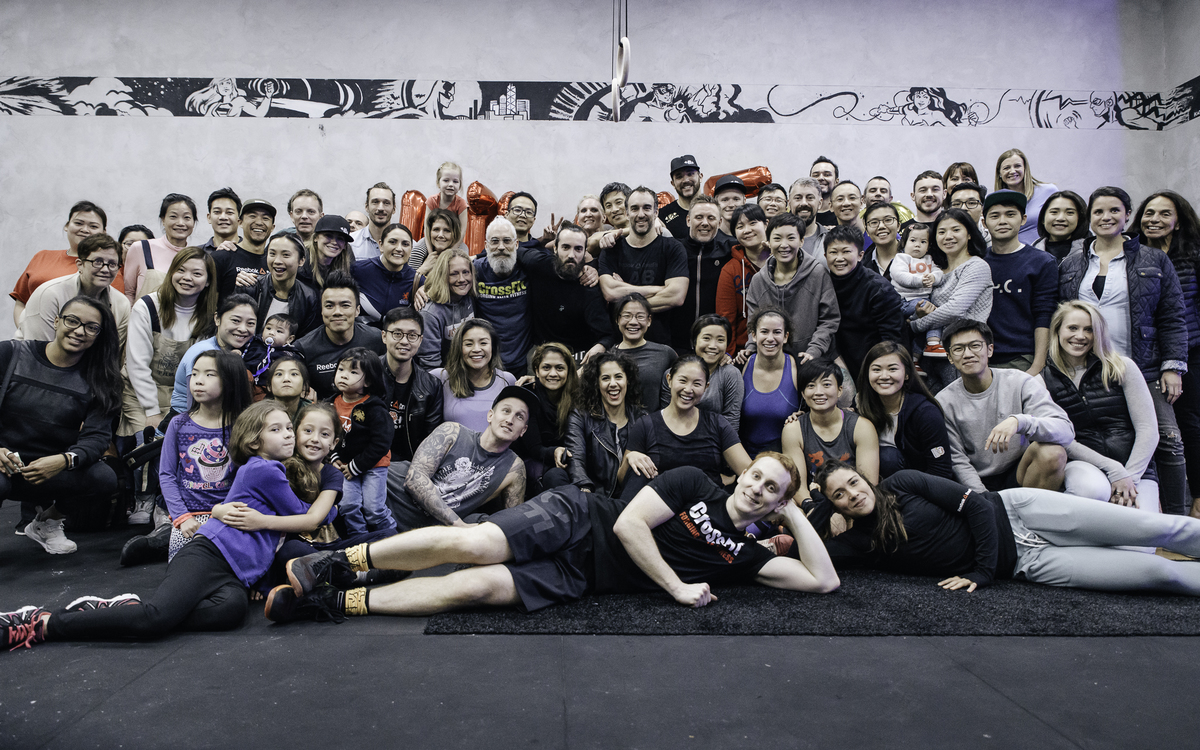
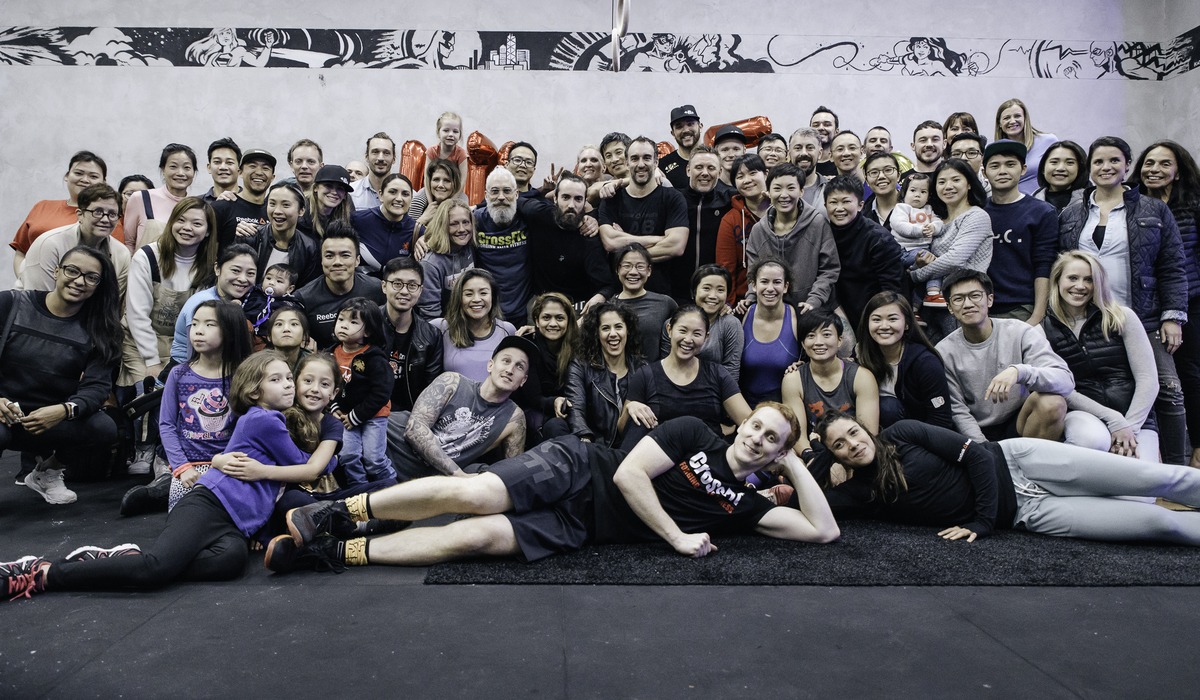
updated header image on info page

diff --git a/pages/info.md b/pages/info.md
@@ -5,7 +5,7 @@ subheadline: "How does our membership work?"
 teaser: "refer a friend and get one free week" #"you are not only joining a gym, you are joining a family"
 permalink: "/info/"
 header:
-    image_fullwidth: "headers/hdr_packages1.jpg"
+    image_fullwidth: "headers/hdr_packages2.jpg"
     caption: ""
 ---
 {% include alert text="**Note:** All payments must be settled prior to joining classes." %}
